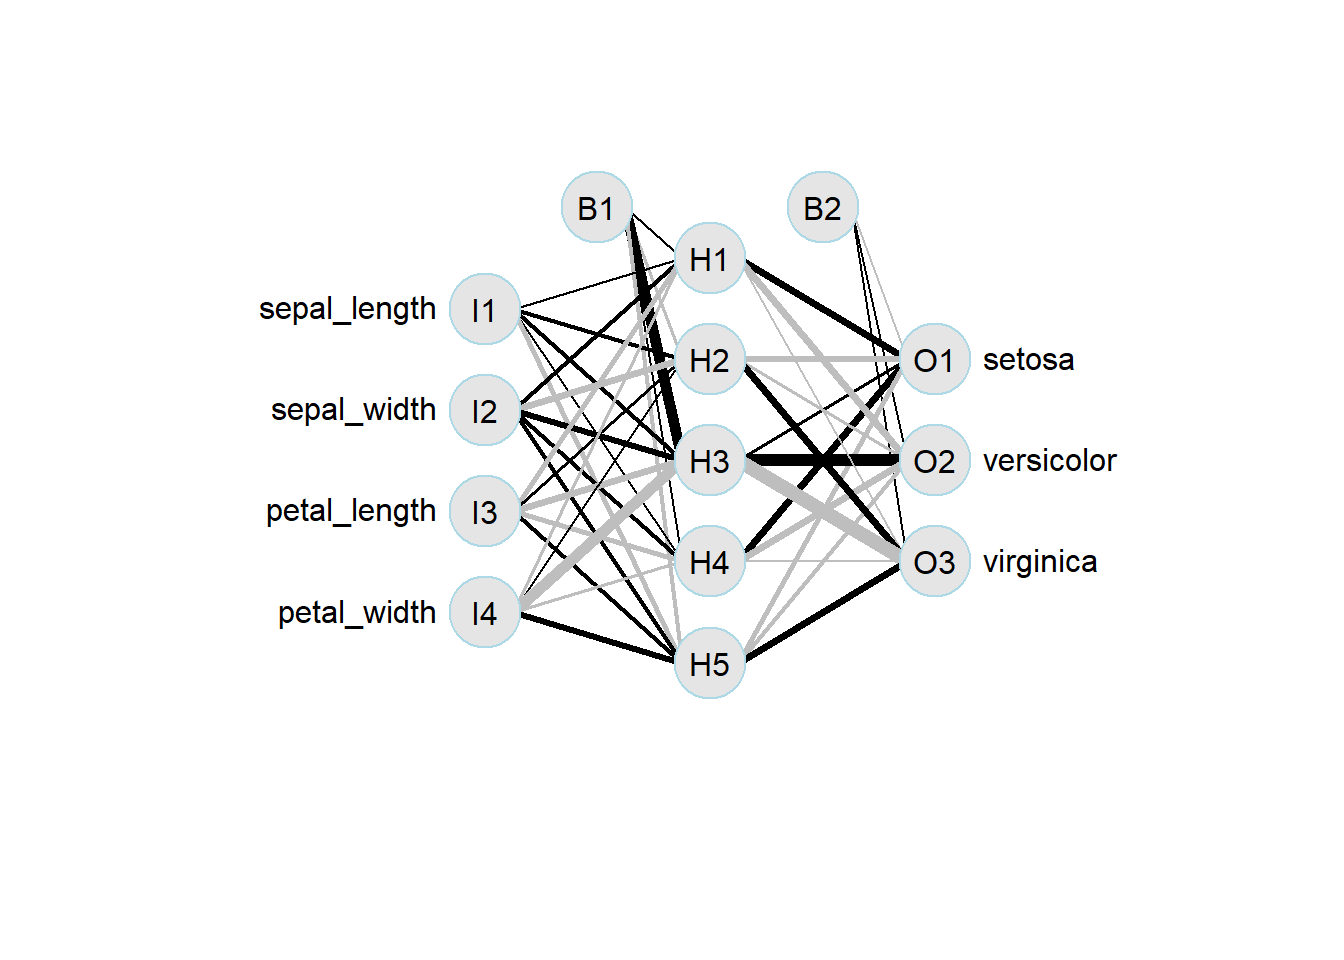
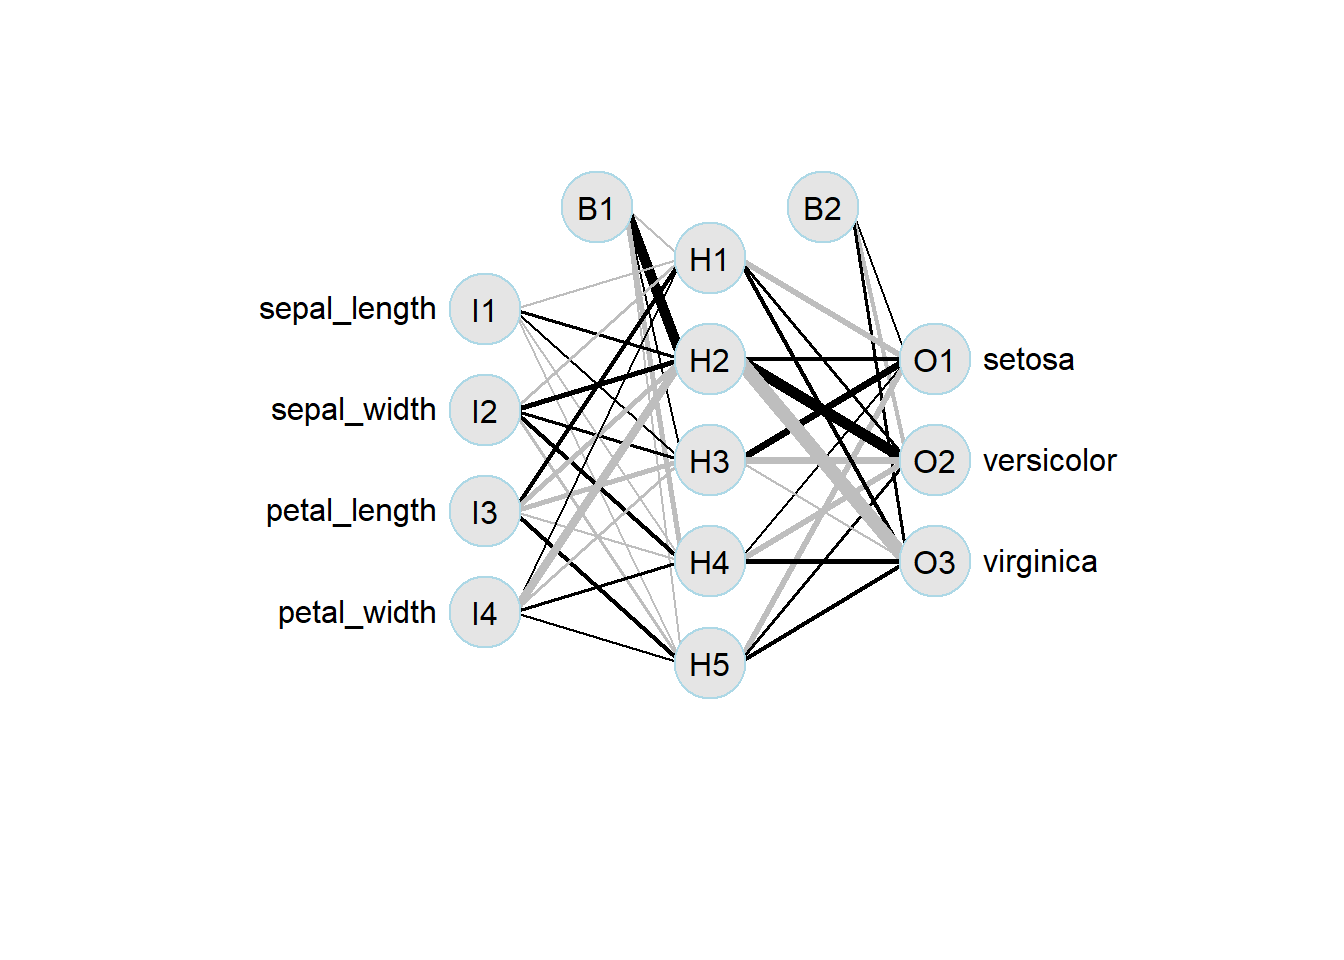
update neuralnet

Changed region(s): [[0.375, 0.2188, 0.5312, 0.6875], [0.5312, 0.25, 0.6875, 0.5938], [0.5625, 0.625, 0.625, 0.6875]]

diff --git a/_site/posts/neural-net-nnet/neuralnet.html b/_site/posts/neural-net-nnet/neuralnet.html
@@ -280,22 +280,24 @@ code span.wa { color: #60a0b0; font-weight: bold; font-style: italic; } /* Warni
 <span id="cb1-19"><a href="#cb1-19" aria-hidden="true" tabindex="-1"></a>                        <span class="at">maxit =</span> <span class="dv">500</span>)</span></code><button title="Copy to Clipboard" class="code-copy-button"><i class="bi"></i></button></pre></div>
 <div class="cell-output cell-output-stdout">
 <pre><code># weights:  43
-initial  value 124.125355 
-iter  10 value 52.678791
-iter  20 value 11.630425
-iter  30 value 5.200076
-iter  40 value 4.378034
-iter  50 value 4.170839
-iter  60 value 4.102572
-iter  70 value 4.052743
-iter  80 value 4.043437
-iter  90 value 4.023595
-iter 100 value 4.016805
-iter 110 value 4.012022
-iter 120 value 4.011065
-iter 130 value 4.010976
-iter 140 value 4.010972
-final  value 4.010971 
+initial  value 137.813369 
+iter  10 value 40.287271
+iter  20 value 10.098038
+iter  30 value 9.419960
+iter  40 value 9.054851
+iter  50 value 8.772584
+iter  60 value 8.746655
+iter  70 value 8.734800
+iter  80 value 8.731859
+iter  90 value 8.731220
+iter 100 value 8.730121
+iter 110 value 8.729871
+iter 120 value 8.729699
+iter 130 value 8.729660
+iter 140 value 8.729656
+iter 140 value 8.729656
+iter 140 value 8.729656
+final  value 8.729656 
 converged</code></pre>
 </div>
 </div>
@@ -311,45 +313,45 @@ converged</code></pre>
 </div>
 <div class="cell-output cell-output-stdout">
 <pre><code>         ...1 sepal_length sepal_width petal_length petal_width    species
-1      setosa          5.4         3.7          1.5         0.2     setosa
-2      setosa          4.8         3.4          1.6         0.2     setosa
-3      setosa          4.8         3.0          1.4         0.1     setosa
-4      setosa          4.3         3.0          1.1         0.1     setosa
-5      setosa          5.7         4.4          1.5         0.4     setosa
-6      setosa          5.7         3.8          1.7         0.3     setosa
-7      setosa          4.6         3.6          1.0         0.2     setosa
-8      setosa          5.2         3.4          1.4         0.2     setosa
-9      setosa          4.5         2.3          1.3         0.3     setosa
-10     setosa          5.0         3.5          1.6         0.6     setosa
-11     setosa          5.1         3.8          1.9         0.4     setosa
-12     setosa          5.1         3.8          1.6         0.2     setosa
-13     setosa          4.6         3.2          1.4         0.2     setosa
-14 versicolor          6.4         3.2          4.5         1.5 versicolor
-15 versicolor          6.9         3.1          4.9         1.5 versicolor
-16 versicolor          6.6         2.9          4.6         1.3 versicolor
-17 versicolor          5.2         2.7          3.9         1.4 versicolor
-18 versicolor          6.0         2.2          4.0         1.0 versicolor
-19 versicolor          6.1         2.9          4.7         1.4 versicolor
-20 versicolor          6.1         2.8          4.0         1.3 versicolor
-21 versicolor          6.1         2.8          4.7         1.2 versicolor
-22 versicolor          6.4         2.9          4.3         1.3 versicolor
-23 versicolor          6.0         2.9          4.5         1.5 versicolor
-24  virginica          6.0         2.7          5.1         1.6 versicolor
-25 versicolor          5.6         3.0          4.1         1.3 versicolor
-26 versicolor          5.0         2.3          3.3         1.0 versicolor
+1      setosa          4.9         3.0          1.4         0.2     setosa
+2      setosa          5.0         3.6          1.4         0.2     setosa
+3      setosa          5.4         3.9          1.7         0.4     setosa
+4      setosa          5.0         3.4          1.5         0.2     setosa
+5      setosa          4.9         3.1          1.5         0.1     setosa
+6      setosa          4.8         3.0          1.4         0.1     setosa
+7      setosa          4.3         3.0          1.1         0.1     setosa
+8      setosa          5.4         3.4          1.7         0.2     setosa
+9      setosa          5.1         3.7          1.5         0.4     setosa
+10     setosa          5.2         4.1          1.5         0.1     setosa
+11     setosa          4.4         3.0          1.3         0.2     setosa
+12     setosa          4.8         3.0          1.4         0.3     setosa
+13     setosa          5.3         3.7          1.5         0.2     setosa
+14 versicolor          6.3         3.3          4.7         1.6 versicolor
+15 versicolor          6.0         2.2          4.0         1.0 versicolor
+16 versicolor          5.8         2.7          4.1         1.0 versicolor
+17 versicolor          6.2         2.2          4.5         1.5 versicolor
+18 versicolor          5.7         2.6          3.5         1.0 versicolor
+19 versicolor          5.5         2.4          3.8         1.1 versicolor
+20 versicolor          5.8         2.7          3.9         1.2 versicolor
+21 versicolor          5.4         3.0          4.5         1.5 versicolor
+22 versicolor          6.0         3.4          4.5         1.6 versicolor
+23 versicolor          5.5         2.5          4.0         1.3 versicolor
+24 versicolor          5.5         2.6          4.4         1.2 versicolor
+25 versicolor          5.6         2.7          4.2         1.3 versicolor
+26 versicolor          5.1         2.5          3.0         1.1 versicolor
 27  virginica          6.3         3.3          6.0         2.5  virginica
-28  virginica          6.3         2.9          5.6         1.8  virginica
-29  virginica          7.2         3.6          6.1         2.5  virginica
-30  virginica          6.4         2.7          5.3         1.9  virginica
-31  virginica          7.7         2.8          6.7         2.0  virginica
-32  virginica          6.3         2.7          4.9         1.8  virginica
-33  virginica          6.1         3.0          4.9         1.8  virginica
-34 versicolor          7.2         3.0          5.8         1.6  virginica
-35  virginica          6.4         2.8          5.6         2.2  virginica
-36 versicolor          6.3         2.8          5.1         1.5  virginica
-37  virginica          7.7         3.0          6.1         2.3  virginica
-38  virginica          6.0         3.0          4.8         1.8  virginica
-39  virginica          6.9         3.1          5.4         2.1  virginica</code></pre>
+28  virginica          7.1         3.0          5.9         2.1  virginica
+29  virginica          4.9         2.5          4.5         1.7  virginica
+30  virginica          7.2         3.6          6.1         2.5  virginica
+31  virginica          5.7         2.5          5.0         2.0  virginica
+32  virginica          5.6         2.8          4.9         2.0  virginica
+33  virginica          7.7         2.8          6.7         2.0  virginica
+34  virginica          7.4         2.8          6.1         1.9  virginica
+35  virginica          7.9         3.8          6.4         2.0  virginica
+36  virginica          6.4         3.1          5.5         1.8  virginica
+37  virginica          5.8         2.7          5.1         1.9  virginica
+38  virginica          6.3         2.5          5.0         1.9  virginica
+39  virginica          6.2         3.4          5.4         2.3  virginica</code></pre>
 </div>
 </div>
 <p>Como já temos o resultados previstos e o real, podemos fazer uma matriz de confusão para facilitar a visualização dos resultados e analisar o desempenho inicial do modelo.</p>
@@ -363,8 +365,8 @@ converged</code></pre>
 <pre><code>            
              setosa versicolor virginica
   setosa         13          0         0
-  versicolor      0         12         1
-  virginica       0          2        11</code></pre>
+  versicolor      0         13         0
+  virginica       0          0        13</code></pre>
 </div>
 </div>
 <p>Como ficou o resultado da previsão ?</p>
@@ -376,10 +378,10 @@ converged</code></pre>
  [6] "setosa"     "setosa"     "setosa"     "setosa"     "setosa"    
 [11] "setosa"     "setosa"     "setosa"     "versicolor" "versicolor"
 [16] "versicolor" "versicolor" "versicolor" "versicolor" "versicolor"
-[21] "versicolor" "versicolor" "versicolor" "virginica"  "versicolor"
+[21] "versicolor" "versicolor" "versicolor" "versicolor" "versicolor"
 [26] "versicolor" "virginica"  "virginica"  "virginica"  "virginica" 
-[31] "virginica"  "virginica"  "virginica"  "versicolor" "virginica" 
-[36] "versicolor" "virginica"  "virginica"  "virginica" </code></pre>
+[31] "virginica"  "virginica"  "virginica"  "virginica"  "virginica" 
+[36] "virginica"  "virginica"  "virginica"  "virginica" </code></pre>
 </div>
 </div>
 <p>Plotando o modelo que acabamos de fazer</p>
@@ -394,15 +396,15 @@ converged</code></pre>
 <section id="pra-onde-vai-quem-é-o-cliente" class="level3">
 <h3 class="anchored" data-anchor-id="pra-onde-vai-quem-é-o-cliente"><span style="color: #5AC8BE ;"><strong>Pra onde vai quem é o cliente</strong></span></h3>
 <ul>
-<li>Um modelos de previsão de classificação pode ser embarcado dentro do sistema de produção.</li>
-<li>O modelo que fizemos é bastante simple e serve apenas como base para aprendizado, como próximo passo o uso de validação cruzada (cross validation) pode ser uma excelente opção para complementar o que aprendemos aqui.</li>
+<li><p>Um modelos de previsão de classificação pode ser embarcado dentro do sistema de produção.</p></li>
+<li><p>O modelo que fizemos é bastante simples e serve apenas como base para aprendizado, como próximo passo o uso de validação cruzada (cross validation) pode ser uma excelente opção para complementar o que aprendemos aqui.</p></li>
 </ul>
 </section>
 <section id="qual-o-resultado" class="level3">
 <h3 class="anchored" data-anchor-id="qual-o-resultado"><span style="color: #5AC8BE ;"><strong>Qual o resultado</strong></span></h3>
 <ul>
 <li><p>Aperfeiçoar as técnicas de contrução de modelos e solução de problemas de classificação para que estes possam auxiliar na produtividade da industria de flores que usamos como exemplo.</p></li>
-<li><p>Facilitar o processo de classificação</p></li>
+<li><p>Facilitar o processo de classificação.</p></li>
 <li><p>Melhorar o processo de produção, qualidade do produto, satisfação do consumidor e competitividade do negócio.</p></li>
 </ul>
 

diff --git a/_site/index.html b/_site/index.html
@@ -206,7 +206,7 @@ Marcelo Carvalho dos Anjos
 </a>
 </div>
 </div>
-<div class="quarto-post image-right" data-index="1" data-categories="Modelos" data-listing-date-sort="1659754800000" data-listing-file-modified-sort="1659922657847" data-listing-reading-time-sort="3.25">
+<div class="quarto-post image-right" data-index="1" data-categories="Modelos" data-listing-date-sort="1659754800000" data-listing-file-modified-sort="1659922875462" data-listing-reading-time-sort="3.25">
 <div class="thumbnail">
 <p><a href="./posts/neural-net-nnet/neuralnet.html"> <img src="./posts/neural-net-nnet/neural_class.png" class="thumnail-image"> </a></p>
 </div>
